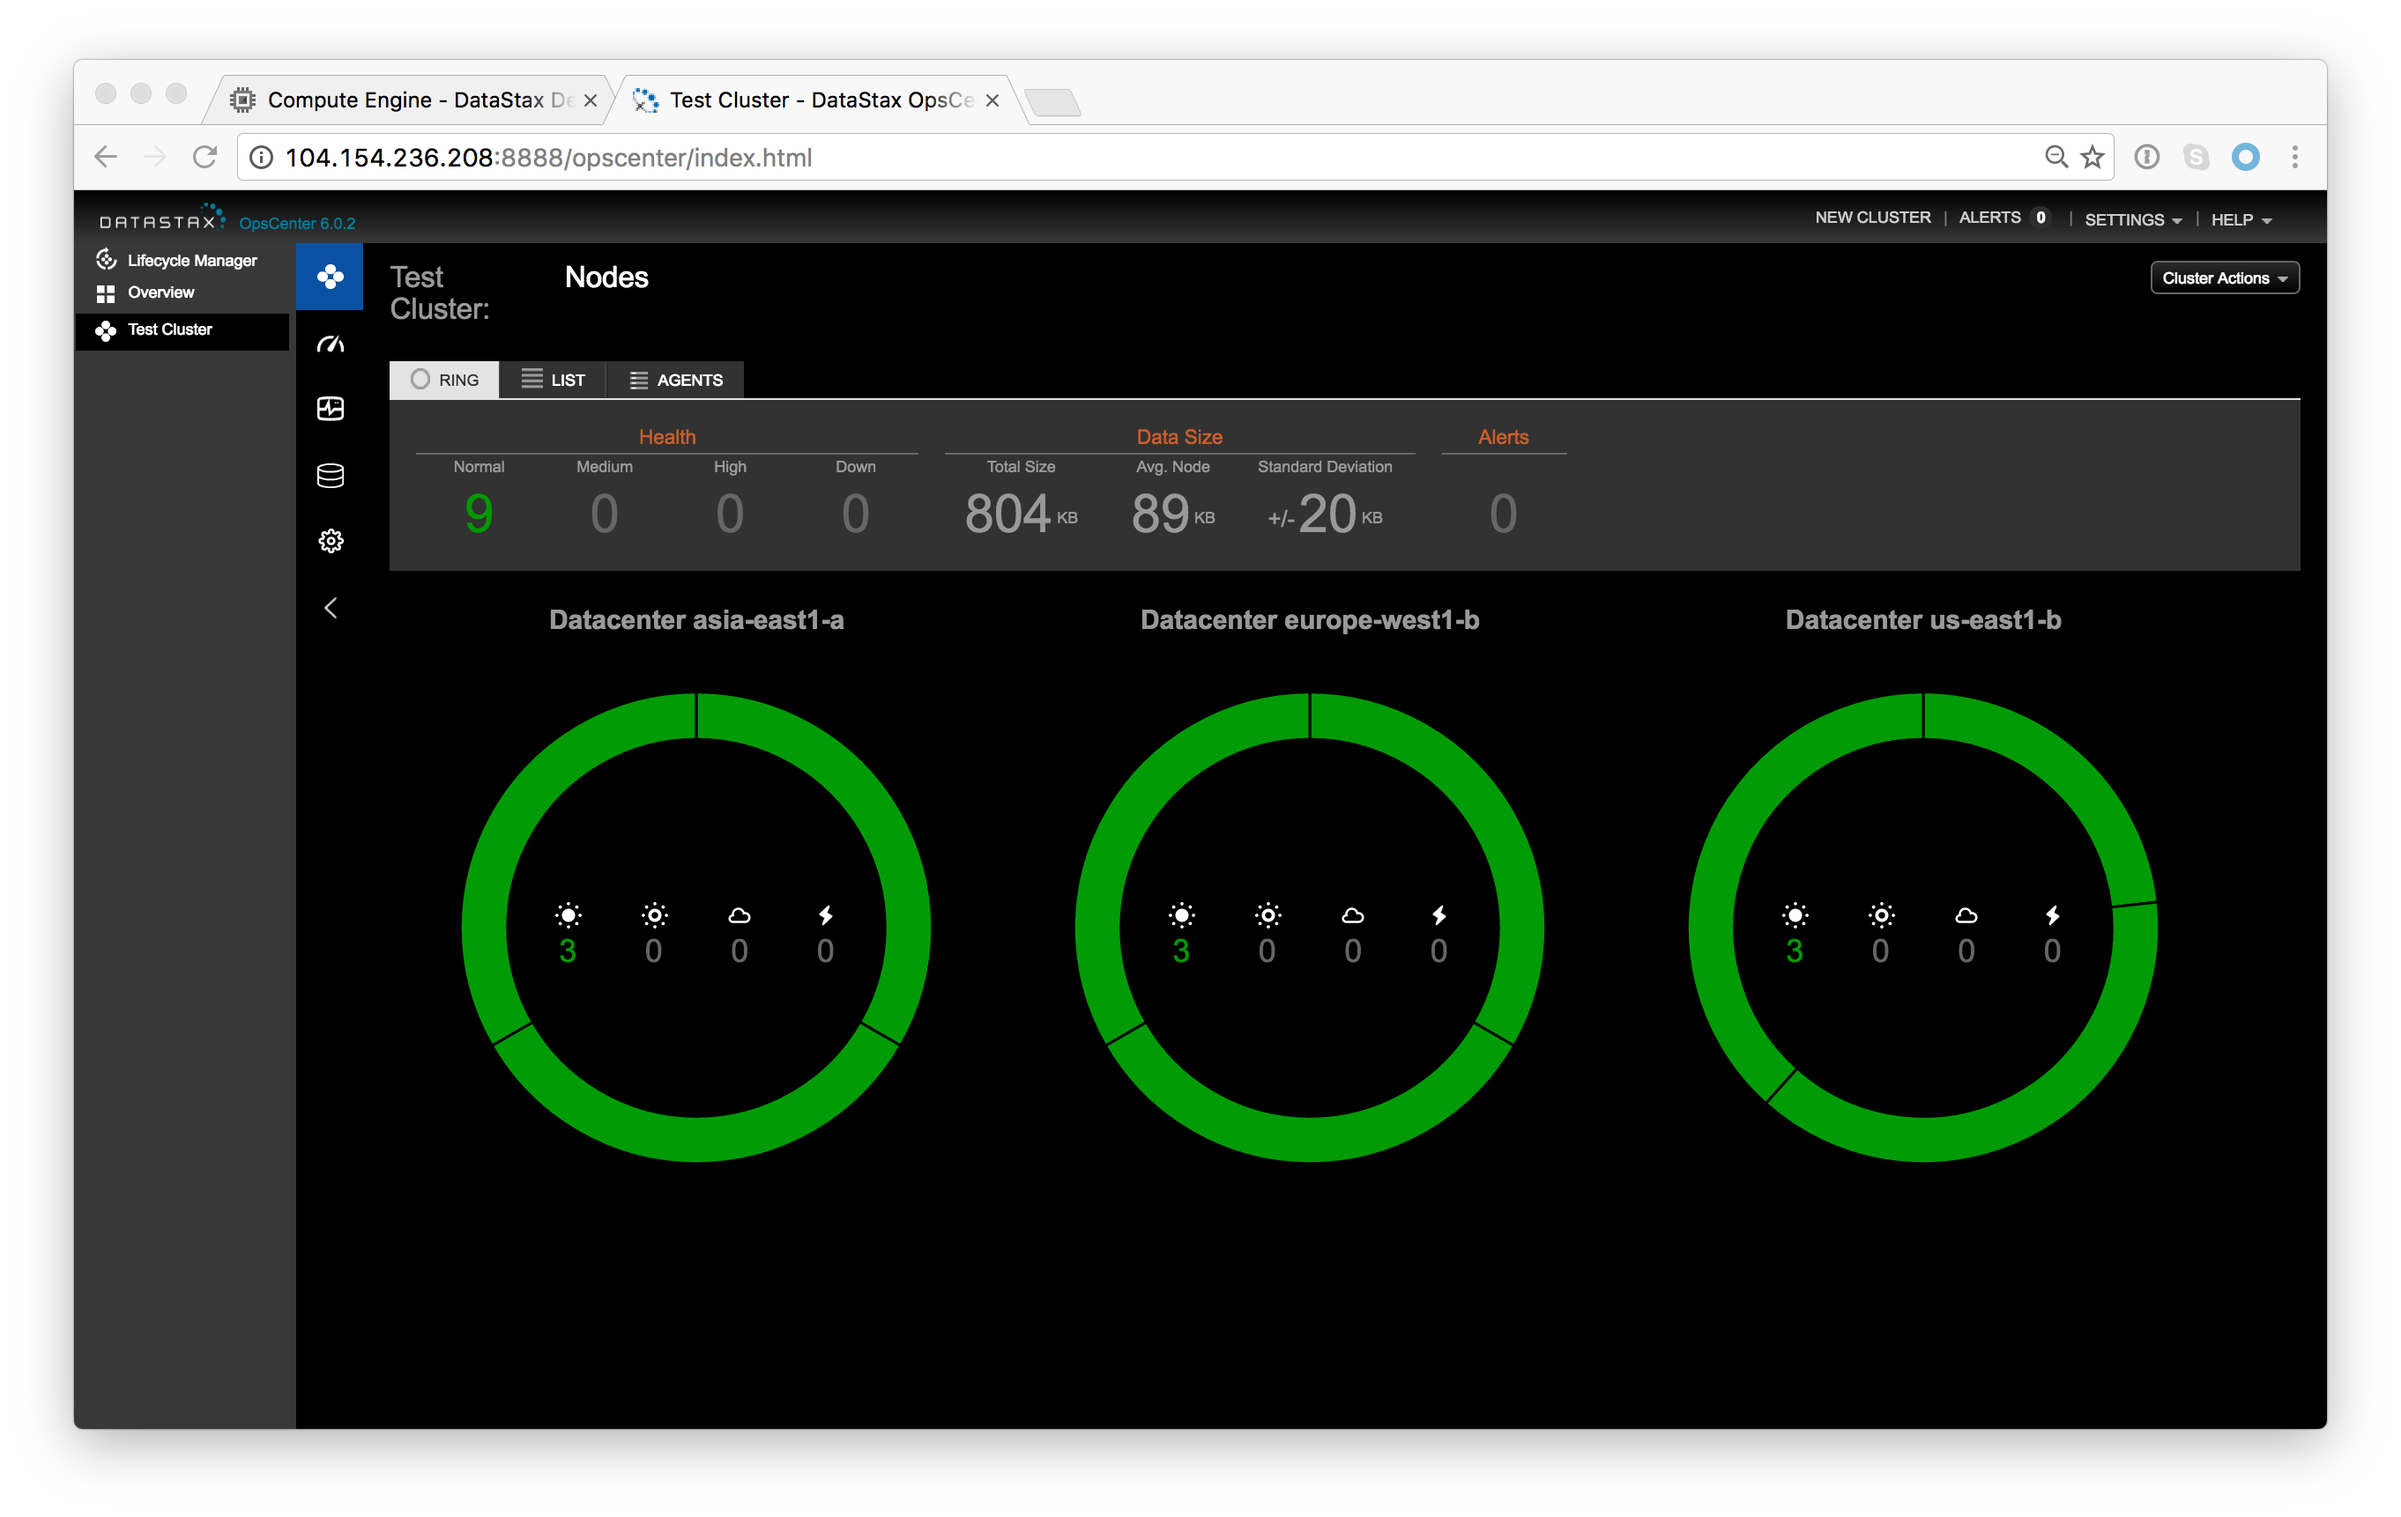
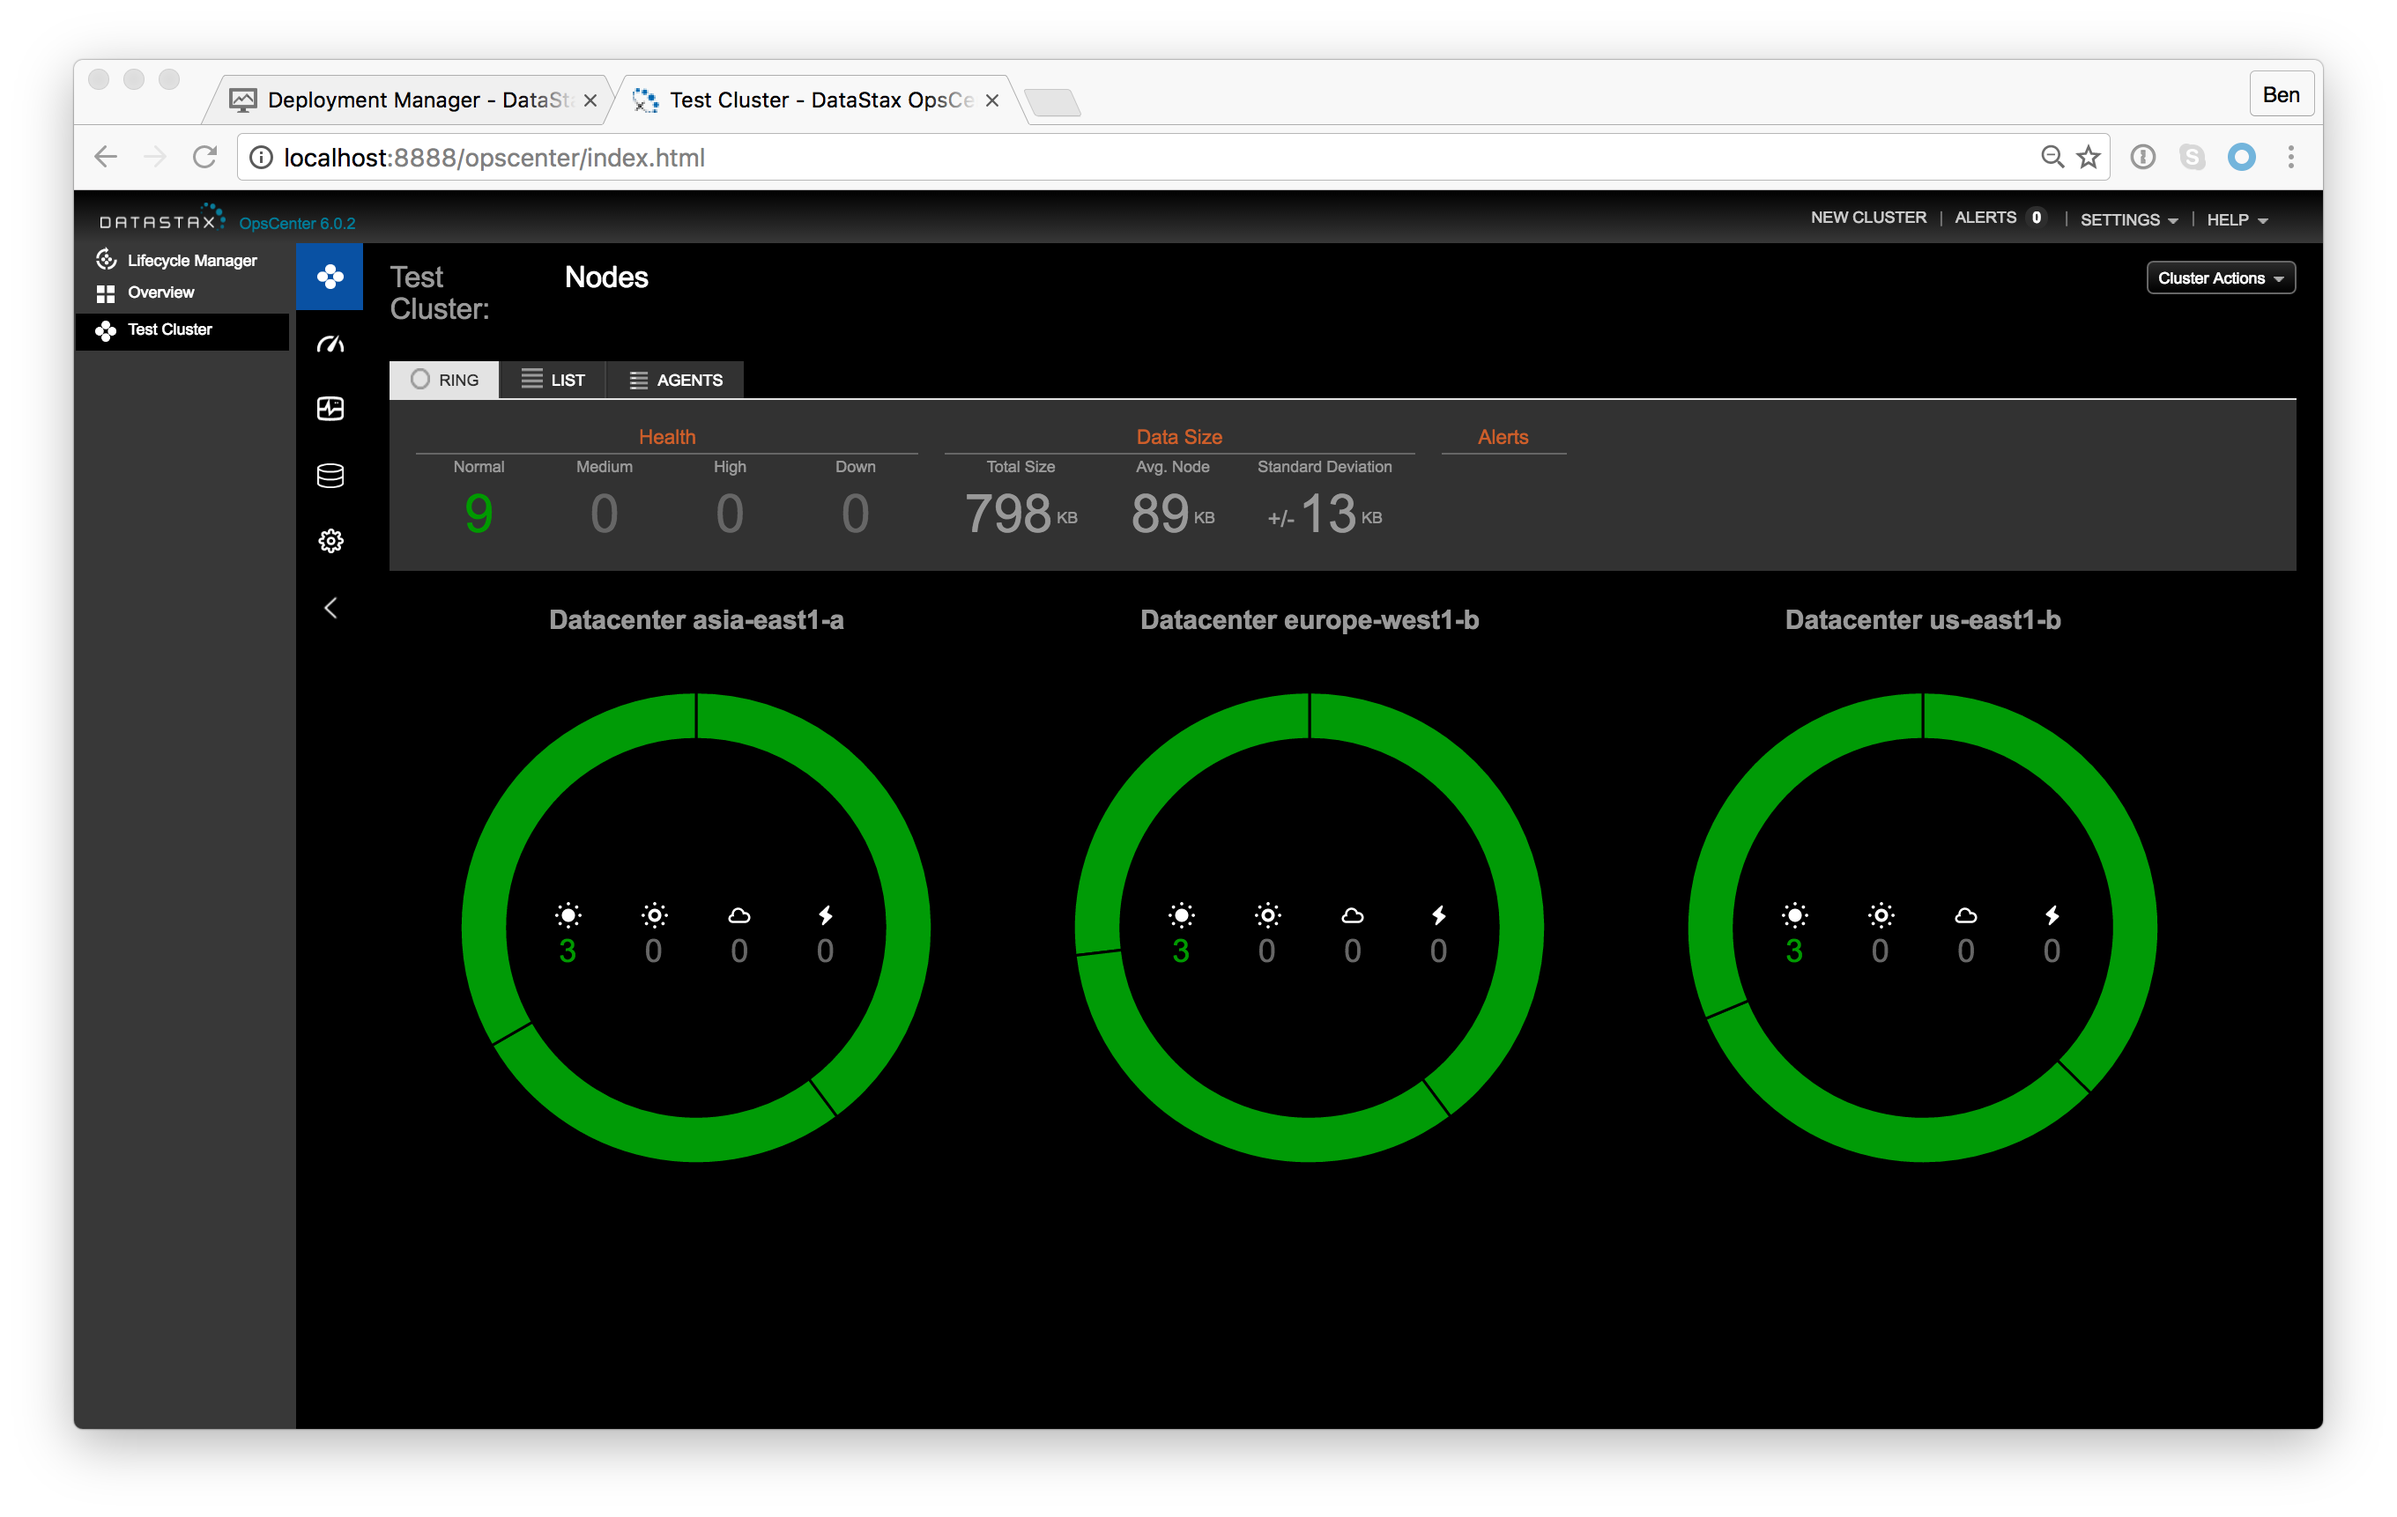
using tunnel now

diff --git a/cloudlauncher.md b/cloudlauncher.md
@@ -21,25 +21,21 @@ The infrastructure will take a few minutes to deploy.  When complete you should 
 
 ![](./img/deployed.png)
 
-Scroll down to the OpsCenter machine and select it:
+To view OpsCenter, the DataStax admin interface, we will need to create an ssh tunnel.  To do that, open a terminal on your local machine and run the command:
 
-![](./img/opscentermachine.png)
+    gcloud compute ssh --ssh-flag=-L8888:localhost:8888 --project=<NAME OF YOUR PROJECT> --zone=us-central1-f datastax-enterprise-1-opscenter-vm 
 
-Click "Manage Resource"
+In my case, the project is named datastax-dev, though it will have a different name for you.
 
-![](./img/vminstance.png)
+![](./img/tunnel.png)
 
-Scroll down to the external IP and select it
-
-![](./img/externalip.png)
-
-To view OpsCenter, the DataStax admin interface, open a web browser to port 8888 on the external IP.  Note, if you do this very soon after deployment, the cluster may not have completed setup yet.
+Now, we can open a web browser to http://localhost:8888 to view OpsCenter.
 
 ![](./img/opscenter.png)
 
 Great!  You now have a DataStax Enterprise cluster running with 3 nodes in Asia, Europe and America.
 
-We can also log into a node to interact with the database.  To do that go back to the Google console and click the back arrow in the upper left.  This will return you to the view of the deployment.
+We can also log into a node to interact with the database.  To do that go back to the Google console.
 
 ![](./img/nodes.png)
 
